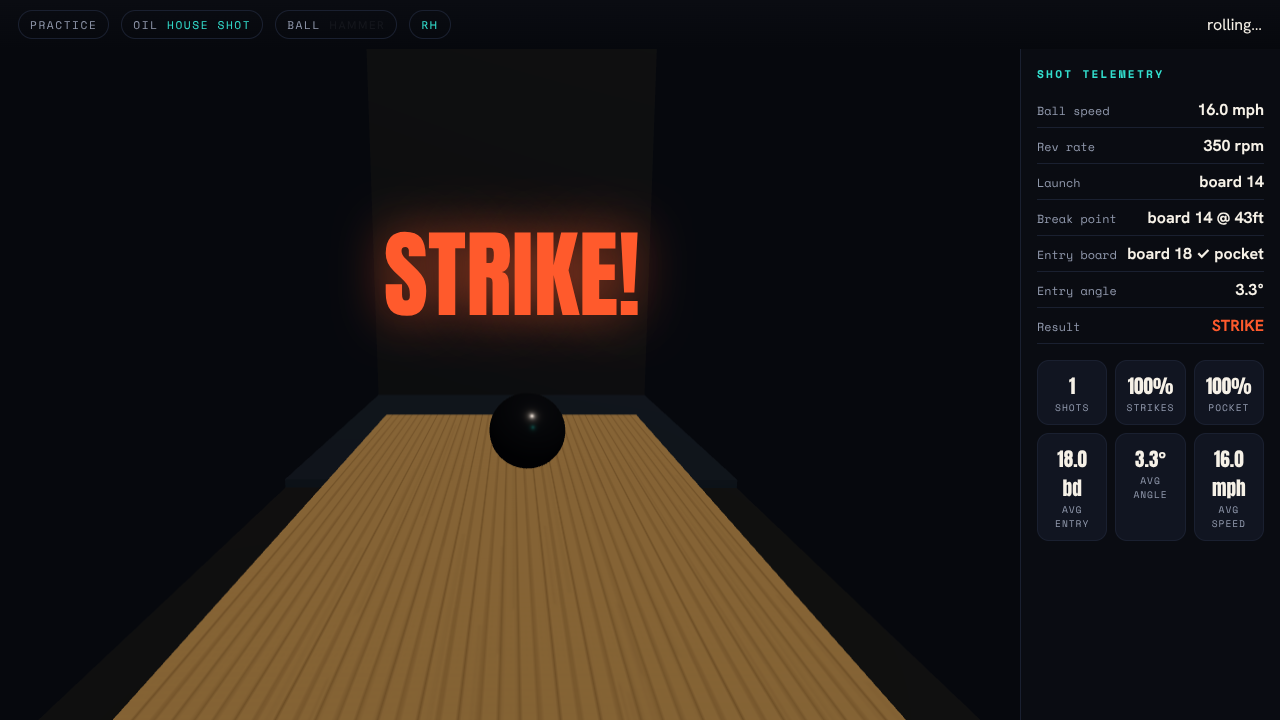
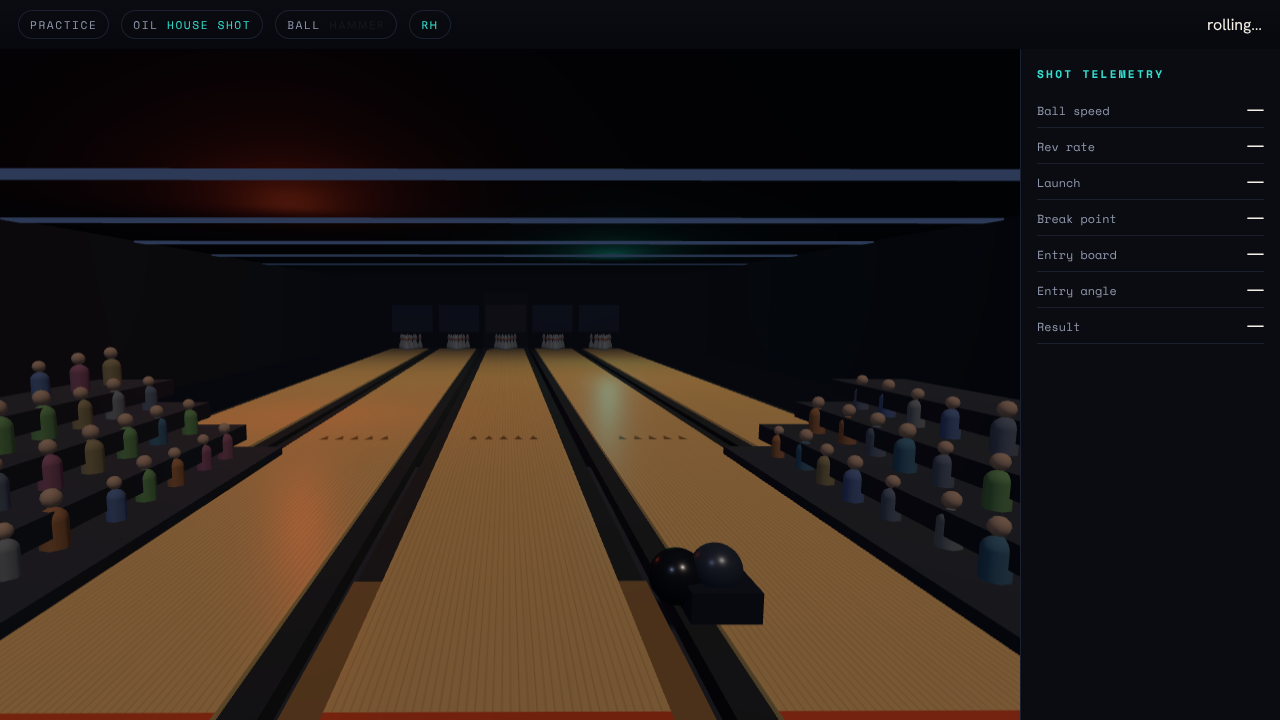
Bowling v3.1: full alley environment — other lanes, crowd, ceiling, housing
Make it feel like a real bowling center, not a lane in a void (practice-sim
realism).

- render3d.js: build the alley around the lane — four adjacent lanes with their
  own pins + gutters, pin-deck masking units, a ceiling with light strips, side
  walls, a back wall, an approach + concourse floor, and a tiered crowd/gallery
  of ~90 instanced spectators down both sides.
- New wide "establish" camera frames the whole house (lanes + crowd) while the
  ball returns, then eases to the behind-ball view for the shot.
- Softer, balanced alley lighting (ambient + key + fill + warm/teal accents),
  no hot back-wall blob.

Claude-Session: https://claude.ai/code/session_01N7ZmaKxFYwx3CxG6pRFPEV

diff --git a/public/bowl/render3d.js b/public/bowl/render3d.js
@@ -55,6 +55,61 @@
     return grp;
   }
 
+  // ---- the alley around the lane (other lanes, pin housing, ceiling, crowd) ----
+  const LANE_PITCH = LANE_HW * 2 + GUT * 2 + 0.3;
+  function maskingUnit(emissive) {
+    const m = new T.Mesh(new T.BoxGeometry(LANE_HW * 2 + GUT, 3.2, 0.5), new T.MeshStandardMaterial({ color: 0x1b2742, emissive: emissive || 0x0a1024, emissiveIntensity: 0.6, roughness: 0.6 }));
+    m.position.set(0, 3.4, -LANE_LEN - 4.8); return m;
+  }
+  function sideLane(offset) {
+    const g = new T.Group(); g.position.x = offset;
+    const l = new T.Mesh(new T.BoxGeometry(LANE_HW * 2, 0.3, LANE_LEN + 8), new T.MeshStandardMaterial({ map: laneMat.map, roughness: 0.4, metalness: 0.1 }));
+    l.position.set(0, -0.15, -LANE_LEN / 2 + 1); l.receiveShadow = true; g.add(l);
+    [-1, 1].forEach((s) => { const gg = new T.Mesh(new T.BoxGeometry(GUT, 0.5, LANE_LEN + 8), new T.MeshStandardMaterial({ color: 0x05070c })); gg.position.set(s * (LANE_HW + GUT / 2), -0.35, -LANE_LEN / 2 + 1); g.add(gg); });
+    for (let i = 0; i < 10; i++) { const pin = makePin(); pin.position.set(PINS[i].x * LANE_HW, 0, -LANE_LEN - PINS[i].y * PINROW); g.add(pin); }
+    g.add(maskingUnit(0x0a1024));
+    return g;
+  }
+  function buildCrowd() {
+    const N = 90, dummy = new T.Object3D();
+    const bodies = new T.InstancedMesh(new T.CapsuleGeometry(0.22, 0.5, 4, 6), new T.MeshStandardMaterial({ roughness: 0.85 }), N);
+    const heads = new T.InstancedMesh(new T.SphereGeometry(0.16, 8, 6), new T.MeshStandardMaterial({ color: 0x8a6b55, roughness: 0.85 }), N);
+    const pal = [0x3a4a6a, 0x6a3a4a, 0x4a6a3a, 0x6a5a3a, 0x444a55, 0x7a4a2a, 0x2a4a5a, 0x5a5a5a];
+    let k = 0;
+    for (const side of [-1, 1]) for (let row = 0; row < 4 && k < N; row++) for (let seat = 0; seat < 12 && k < N; seat++) {
+      const x = side * (8.5 + row * 1.15), z = 9 - seat * 1.5, y = 0.5 + row * 0.75;
+      dummy.position.set(x + (Math.random() - .5) * .3, y, z + (Math.random() - .5) * .3);
+      dummy.rotation.y = side > 0 ? -1.3 : 1.3; dummy.scale.setScalar(0.9 + Math.random() * 0.3); dummy.updateMatrix();
+      bodies.setMatrixAt(k, dummy.matrix); bodies.setColorAt(k, new T.Color(pal[(Math.random() * pal.length) | 0]));
+      dummy.position.y += 0.62 * dummy.scale.y; dummy.updateMatrix(); heads.setMatrixAt(k, dummy.matrix);
+      k++;
+    }
+    bodies.count = k; heads.count = k; if (bodies.instanceColor) bodies.instanceColor.needsUpdate = true;
+    scene.add(bodies, heads);
+    for (const side of [-1, 1]) for (let row = 0; row < 4; row++) { const p = new T.Mesh(new T.BoxGeometry(2.4, 0.5, 20), new T.MeshStandardMaterial({ color: 0x14171f, roughness: 0.9 })); p.position.set(side * (8.5 + row * 1.15), row * 0.75, 1); scene.add(p); }
+  }
+  function buildEnv() {
+    // concourse / settee floor
+    const floor = new T.Mesh(new T.BoxGeometry(70, 0.2, 34), new T.MeshStandardMaterial({ color: 0x12151d, roughness: 0.95 }));
+    floor.position.set(0, -0.55, 8); floor.receiveShadow = true; scene.add(floor);
+    // approach wood behind the foul line
+    const appr = new T.Mesh(new T.BoxGeometry(LANE_HW * 2 + GUT * 2, 0.26, 9), new T.MeshStandardMaterial({ color: 0x6e4a24, roughness: 0.6 }));
+    appr.position.set(0, -0.13, 5.5); scene.add(appr);
+    // adjacent lanes
+    [-2, -1, 1, 2].forEach((o) => scene.add(sideLane(o * LANE_PITCH)));
+    // this lane's masking unit (brighter)
+    scene.add(maskingUnit(0x2a0f04));
+    // ceiling + light strips
+    const ceil = new T.Mesh(new T.BoxGeometry(70, 0.3, LANE_LEN + 50), new T.MeshStandardMaterial({ color: 0x0b0e15, roughness: 0.95 }));
+    ceil.position.set(0, 9.2, -LANE_LEN / 2 + 5); scene.add(ceil);
+    for (let z = 2; z > -LANE_LEN; z -= 11) { const strip = new T.Mesh(new T.BoxGeometry(58, 0.1, 1.3), new T.MeshBasicMaterial({ color: 0x2c3a58 })); strip.position.set(0, 9.0, z); scene.add(strip); }
+    // side walls
+    [-1, 1].forEach((s) => { const w = new T.Mesh(new T.BoxGeometry(0.5, 11, LANE_LEN + 50), new T.MeshStandardMaterial({ color: 0x0f1219, roughness: 0.95 })); w.position.set(s * 24, 4.5, -LANE_LEN / 2 + 5); scene.add(w); });
+    // back wall behind the gallery
+    const back = new T.Mesh(new T.BoxGeometry(70, 11, 0.5), new T.MeshStandardMaterial({ color: 0x0c0f16, roughness: 0.95 })); back.position.set(0, 4.5, 16); scene.add(back);
+    buildCrowd();
+  }
+
   function init(container) {
     renderer = new T.WebGLRenderer({ antialias: true, powerPreference: "high-performance" });
     renderer.setPixelRatio(Math.min(2, global.devicePixelRatio || 1));
@@ -65,12 +120,13 @@
     scene = new T.Scene(); scene.background = new T.Color(0x06080d); scene.fog = new T.Fog(0x06080d, 40, 95);
     cam = new T.PerspectiveCamera(55, 1, 0.1, 200);
 
-    scene.add(new T.AmbientLight(0x9fb0d0, 0.55));
-    const key = new T.DirectionalLight(0xfff0e0, 1.1); key.position.set(4, 16, 10); key.castShadow = true;
+    scene.add(new T.AmbientLight(0x9fb0d0, 0.72));
+    const key = new T.DirectionalLight(0xfff0e0, 1.15); key.position.set(4, 16, 10); key.castShadow = true;
     key.shadow.mapSize.set(1024, 1024); key.shadow.camera.left = -8; key.shadow.camera.right = 8; key.shadow.camera.top = 6; key.shadow.camera.bottom = -70; key.shadow.camera.far = 120;
     scene.add(key);
-    const p1 = new T.PointLight(0xff5a2c, 60, 40); p1.position.set(-6, 9, -5); scene.add(p1);
-    const p2 = new T.PointLight(0x32e0cf, 50, 50); p2.position.set(6, 9, -40); scene.add(p2);
+    const fill = new T.DirectionalLight(0xbfd0ff, 0.35); fill.position.set(-6, 8, 6); scene.add(fill);
+    const p1 = new T.PointLight(0xff5a2c, 34, 46); p1.position.set(-9, 7, -16); scene.add(p1);
+    const p2 = new T.PointLight(0x32e0cf, 32, 55); p2.position.set(9, 7, -44); scene.add(p2);
 
     // lane
     laneMat = new T.MeshStandardMaterial({ map: laneTexture(), roughness: 0.35, metalness: 0.15 });
@@ -106,7 +162,8 @@
     returnBall.position.set(0, 0.65, 0.2); rack.add(returnBall);
     rack.position.set(LANE_HW + GUT + 0.9, 0, 1.8); scene.add(rack);
 
-    camSet("ready", 0, true);
+    buildEnv();
+    camSet("establish", 0, true);
     resize();
     global.addEventListener("resize", resize);
     loop();
@@ -128,9 +185,10 @@
   function camSet(mode, lx, snap) {
     camMode = mode;
     let pos, look;
-    if (mode === "ready") { pos = new T.Vector3((lx || 0) * LANE_HW * 0.6, 1.0, 4.2); look = new T.Vector3(0, 0.4, -18); }
+    if (mode === "ready") { pos = new T.Vector3((lx || 0) * LANE_HW * 0.6, 1.6, 6.0); look = new T.Vector3(0, 0.7, -18); }
+    else if (mode === "establish") { pos = new T.Vector3(0, 5.2, 12.5); look = new T.Vector3(0, 1.4, -22); }   // wide: shows the alley + crowd
     else if (mode === "pins") { pos = new T.Vector3(0, 2.4, -LANE_LEN + 7); look = new T.Vector3(0, 0.6, -LANE_LEN - 1); }
-    else { pos = new T.Vector3(0, 1.0, 4.2); look = new T.Vector3(0, 0.4, -18); }
+    else { pos = new T.Vector3(0, 1.6, 6.0); look = new T.Vector3(0, 0.7, -18); }
     camTarget.copy(pos); cam.userData.look = look;
     if (snap) { cam.position.copy(pos); cam.lookAt(look); }
   }
@@ -160,8 +218,8 @@
     const from = new T.Vector3(LANE_HW + GUT + 0.6, BR, 2.0);
     const to = new T.Vector3(0.0, BR, 0.35);
     ball.position.copy(from); ball.rotation.set(0, 0, 0);
-    deliverState = { from, to, t: 0, dur: 0.95, onReady };
-    camSet("ready", 0);
+    deliverState = { from, to, t: 0, dur: 1.1, onReady };
+    camSet("establish", 0);                     // wide alley shot while the ball comes up
   }
   function showReturn(on) { if (returnBall) returnBall.visible = on !== false; }
 
@@ -192,7 +250,7 @@
       const np = deliverState.from.clone().lerp(deliverState.to, e);
       const dz = np.z - ball.position.z, dx = np.x - ball.position.x;
       ball.position.copy(np); ball.rotateOnWorldAxis(new T.Vector3(1, 0, 0), -dz / BR); ball.rotateOnWorldAxis(new T.Vector3(0, 0, 1), -dx / BR);
-      if (p >= 1) { const cb = deliverState.onReady; deliverState = null; if (cb) cb(); }
+      if (p >= 1) { const cb = deliverState.onReady; deliverState = null; camSet("ready", 0); if (cb) cb(); }
     }
     // pin tumble
     for (let i = 0; i < pins.length; i++) {
